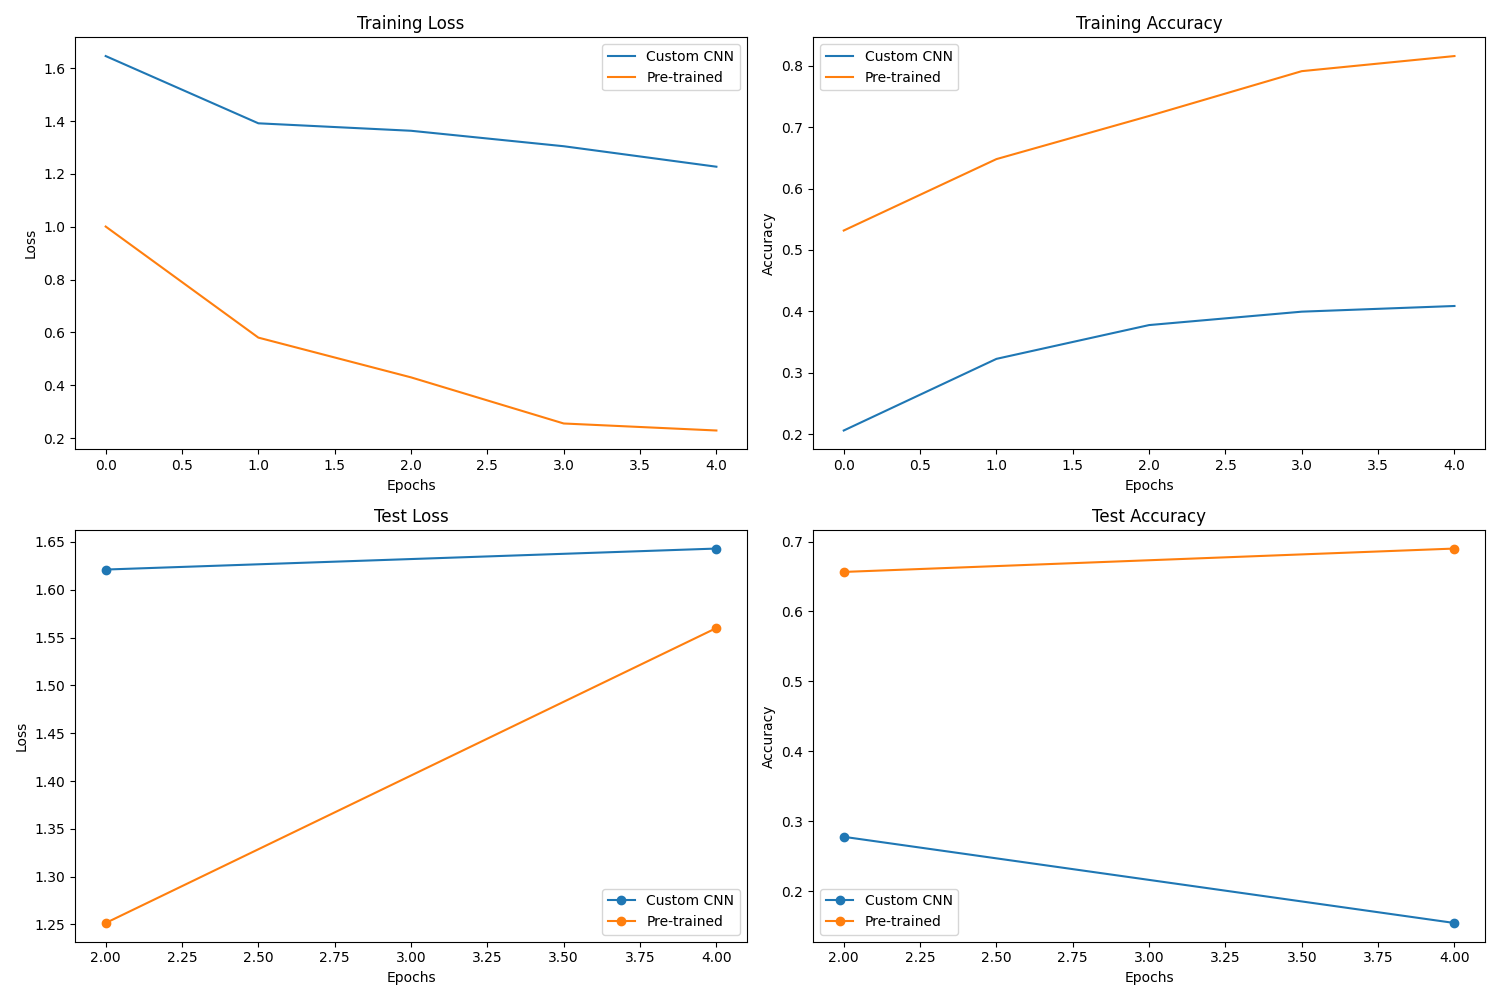
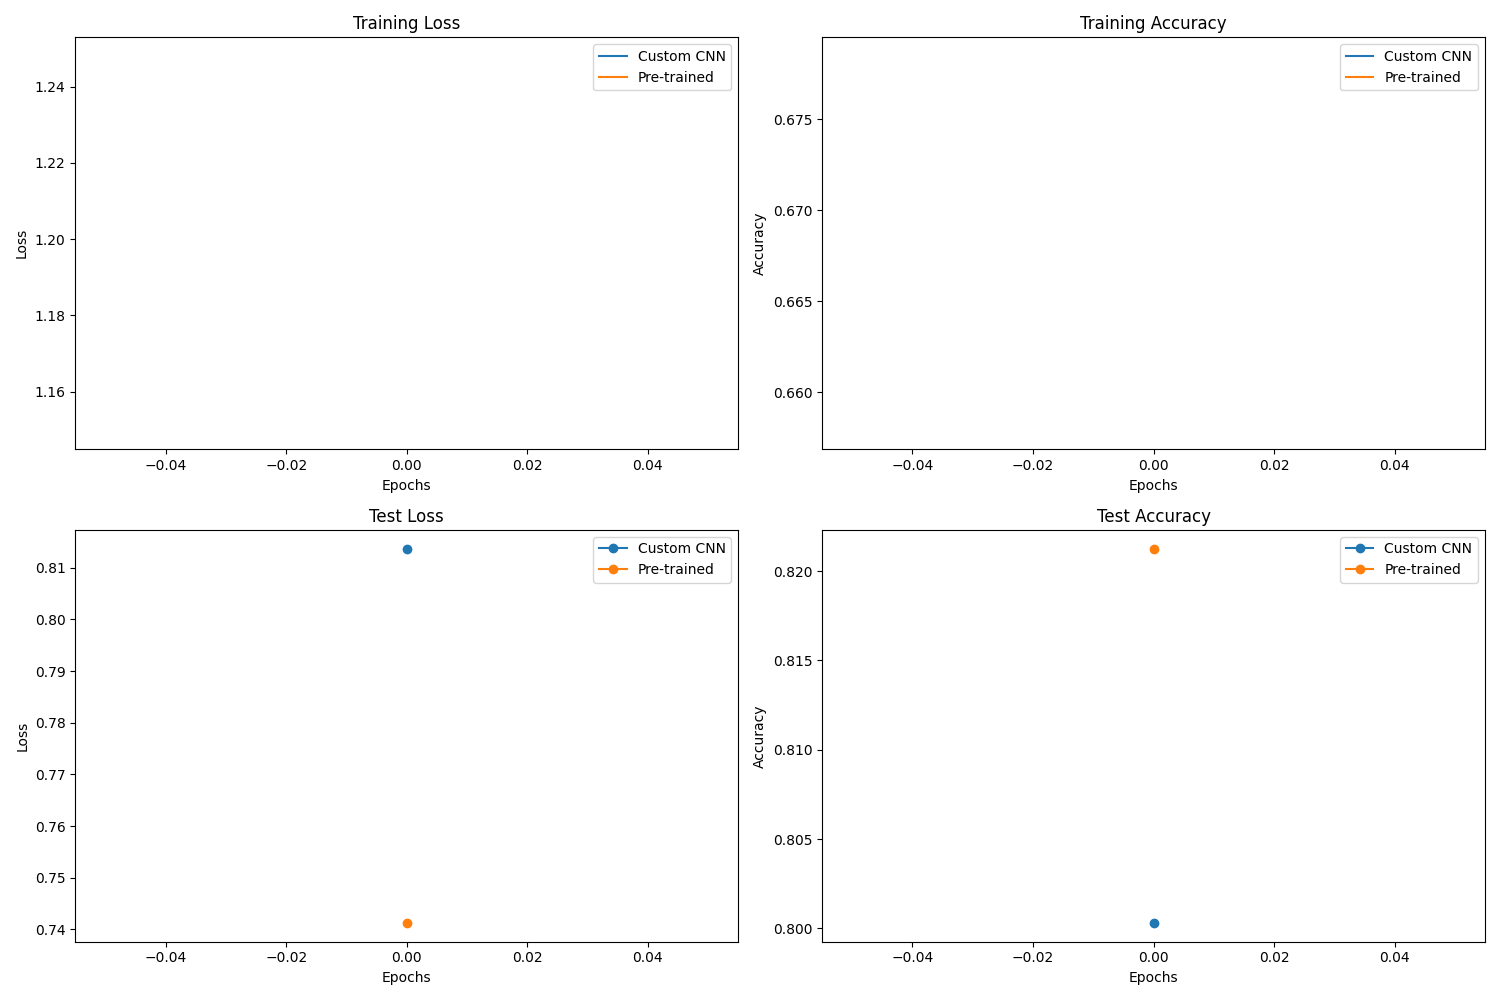
furhter refacotring

diff --git a/main3.py b/main3.py
@@ -36,7 +36,7 @@ class ModelConfig:
     # Training parameters
     learning_rate: float = 5e-4  # Slightly lower learning rate
     weight_decay: float = 2e-5  # Increased regularization
-    epochs: int = 3  # More epochs for better convergence
+    epochs: int = 1  # More epochs for better convergence
     scheduler_factor: float = 0.7  # Less aggressive LR reduction
     scheduler_patience: int = 3  # More patience before reducing LR
 
@@ -83,8 +83,6 @@ def load_images(df, diagnosis_to_idx, config):
     return image_paths, labels
 
 
-# Define transformations
-transform = transforms.Compose(
 # Update the SkinLesionDataset class to handle different transforms for different classes
 class SkinLesionDataset(Dataset):
     def __init__(self, images, labels, transform, transform_minority, diagnosis_to_idx):
@@ -204,22 +202,18 @@ class CNNModel(nn.Module):
         return x
 
 
-# Training function
-def train(dataloader, model, loss_fn, optimizer, epoch, device, epochs, scheduler):
-    size = len(dataloader.dataset)
+# Update the train function to include scheduler parameter
+def train(dataloader, model, loss_fn, optimizer, epoch, device, scheduler=None):
     model.train()
-    running_loss = 0.0
+    size = len(dataloader.dataset)
+    num_batches = len(dataloader)
+    train_loss = 0.0
     correct = 0
 
-    # Create progress bar for training batches
-    progress_bar = tqdm(
-        dataloader,
-        desc=f"Epoch {epoch + 1}/{epochs} [Train]",
-        leave=False,
-        unit="batch",
-    )
+    # Create progress bar
+    progress_bar = tqdm(dataloader, desc=f"Epoch {epoch + 1}", unit="batch")
 
-    for X, y in progress_bar:
+    for batch, (X, y) in enumerate(progress_bar):
         X, y = X.to(device), y.to(device)
 
         # Compute prediction error
@@ -231,32 +225,37 @@ def train(dataloader, model, loss_fn, optimizer, epoch, device, epochs, schedule
         loss.backward()
         optimizer.step()
 
-        running_loss += loss.item()
-        correct += (pred.argmax(1) == y).type(torch.float).sum().item()
-
-        # Update progress bar with current loss and accuracy
+        # Update metrics
+        train_loss += loss.item()
         batch_loss = loss.item()
-        batch_acc = (pred.argmax(1) == y).type(torch.float).mean().item()
+        _, predicted = torch.max(pred, 1)
+        batch_correct = (predicted == y).sum().item()
+        correct += batch_correct
+
+        # Update progress bar
+        batch_acc = batch_correct / len(y)
         progress_bar.set_postfix(
             loss=f"{batch_loss:.4f}", accuracy=f"{100 * batch_acc:.2f}%"
         )
 
-    # Calculate epoch statistics
-    epoch_loss = running_loss / len(dataloader)
-    epoch_acc = correct / size
-    print(
-        f"Epoch {epoch + 1}: Avg loss: {epoch_loss:.4f}, Accuracy: {100 * epoch_acc:.2f}%"
-    )
+    # Calculate epoch metrics
+    train_loss /= num_batches
+    accuracy = correct / size
+
+    # Update scheduler if provided
+    if scheduler is not None:
+        scheduler.step(train_loss)
 
     # Log metrics to MLflow
     mlflow.log_metrics(
-        {"train_loss": epoch_loss, "train_accuracy": epoch_acc}, step=epoch
+        {"train_loss": train_loss, "train_accuracy": accuracy}, step=epoch
     )
 
-    # Update the learning rate scheduler
-    scheduler.step(epoch_loss)
+    print(
+        f"Train Error: \n Accuracy: {(100 * accuracy):>0.1f}%, Avg loss: {train_loss:>8f} \n"
+    )
 
-    return epoch_loss, epoch_acc
+    return train_loss, accuracy
 
 
 # Testing function
@@ -306,11 +305,25 @@ def test(
 
     # Print detailed classification report
     print("Classification Report:")
-    target_names = [idx_to_diagnosis[i] for i in range(len(diagnosis_to_idx))]
-    report = classification_report(
-        all_labels, all_preds, target_names=target_names, output_dict=True
-    )
-    print(classification_report(all_labels, all_preds, target_names=target_names))
+    if idx_to_diagnosis and diagnosis_to_idx:
+        target_names = [idx_to_diagnosis[i] for i in range(len(diagnosis_to_idx))]
+        report = classification_report(
+            all_labels,
+            all_preds,
+            target_names=target_names,
+            output_dict=True,
+            zero_division=0,
+        )
+        print(
+            classification_report(
+                all_labels, all_preds, target_names=target_names, zero_division=0
+            )
+        )
+    else:
+        report = classification_report(
+            all_labels, all_preds, output_dict=True, zero_division=0
+        )
+        print(classification_report(all_labels, all_preds, zero_division=0))
 
     # Log metrics to MLflow
     if epoch is not None:
@@ -475,7 +488,7 @@ class PretrainedModel(nn.Module):
         return self.base_model(x)
 
 
-# Define a function to train and evaluate both models
+# Update the train_and_compare_models function to pass scheduler to train
 def train_and_compare_models(
     model1,
     model2,
@@ -489,6 +502,7 @@ def train_and_compare_models(
     epochs,
     device,
     idx_to_diagnosis,
+    diagnosis_to_idx,
 ):
     # Dictionary to store results
     results = {
@@ -520,7 +534,7 @@ def train_and_compare_models(
         # Train and evaluate custom CNN
         print("Training custom CNN model:")
         epoch_loss, epoch_acc = train(
-            train_loader, model1, loss_fn, optimizer1, t, device
+            train_loader, model1, loss_fn, optimizer1, t, device, scheduler1
         )
         results["custom_cnn"]["train_losses"].append(epoch_loss)
         results["custom_cnn"]["train_accs"].append(epoch_acc)
@@ -528,7 +542,7 @@ def train_and_compare_models(
         # Train and evaluate pre-trained model
         print("\nTraining pre-trained model:")
         epoch_loss, epoch_acc = train(
-            train_loader, model2, loss_fn, optimizer2, t, device
+            train_loader, model2, loss_fn, optimizer2, t, device, scheduler2
         )
         results["pretrained"]["train_losses"].append(epoch_loss)
         results["pretrained"]["train_accs"].append(epoch_acc)
@@ -543,6 +557,7 @@ def train_and_compare_models(
                 epoch=t,
                 device=device,
                 idx_to_diagnosis=idx_to_diagnosis,
+                diagnosis_to_idx=diagnosis_to_idx,
             )
             results["custom_cnn"]["test_losses"].append(test_loss)
             results["custom_cnn"]["test_accs"].append(test_acc)
@@ -556,14 +571,11 @@ def train_and_compare_models(
                 epoch=t,
                 device=device,
                 idx_to_diagnosis=idx_to_diagnosis,
+                diagnosis_to_idx=diagnosis_to_idx,
             )
             results["pretrained"]["test_losses"].append(test_loss)
             results["pretrained"]["test_accs"].append(test_acc)
             results["pretrained"]["test_epochs"].append(t)
-
-        # Update schedulers
-        scheduler1.step(results["custom_cnn"]["train_losses"][-1])
-        scheduler2.step(results["pretrained"]["train_losses"][-1])
 
     return results
 
@@ -633,7 +645,7 @@ def plot_model_comparison(results):
 
 
 # Define the save_as_onnx function
-def save_as_onnx(model, input_shape, base_filename="skin_lesion_model"):
+def save_as_onnx(model, input_shape, device, base_filename="skin_lesion_model"):
     # Create a timestamp for unique filename
     timestamp = datetime.datetime.now().strftime("%Y%m%d_%H%M%S")
     onnx_filename = f"{base_filename}_{timestamp}.onnx"
@@ -845,6 +857,7 @@ def main():
             config.epochs,
             device,
             idx_to_diagnosis,
+            diagnosis_to_idx,
         )
 
         # Plot model comparison
@@ -872,6 +885,7 @@ def main():
         onnx_path = save_as_onnx(
             better_model_obj,
             config.image_size,
+            device,
             base_filename=f"skin_lesion_{better_model}",
         )
 
